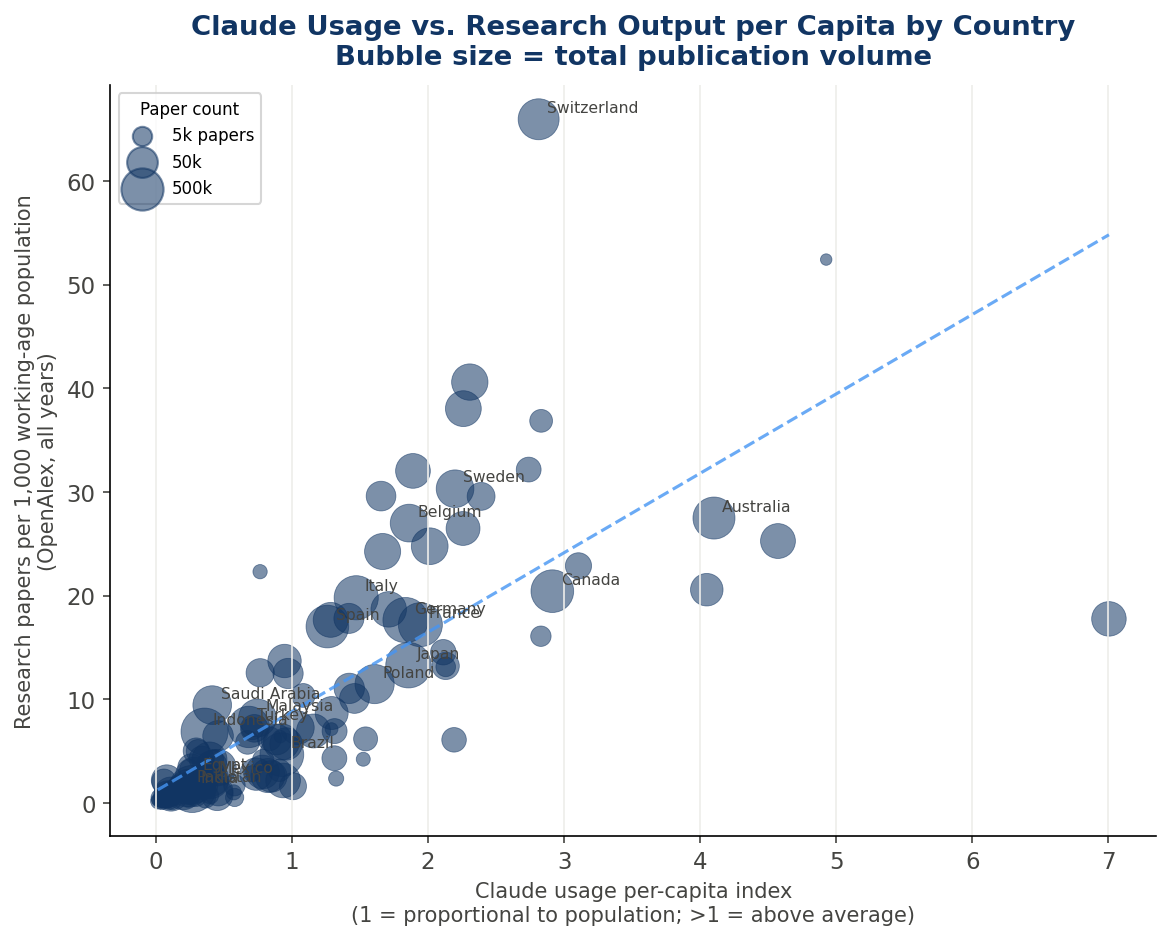
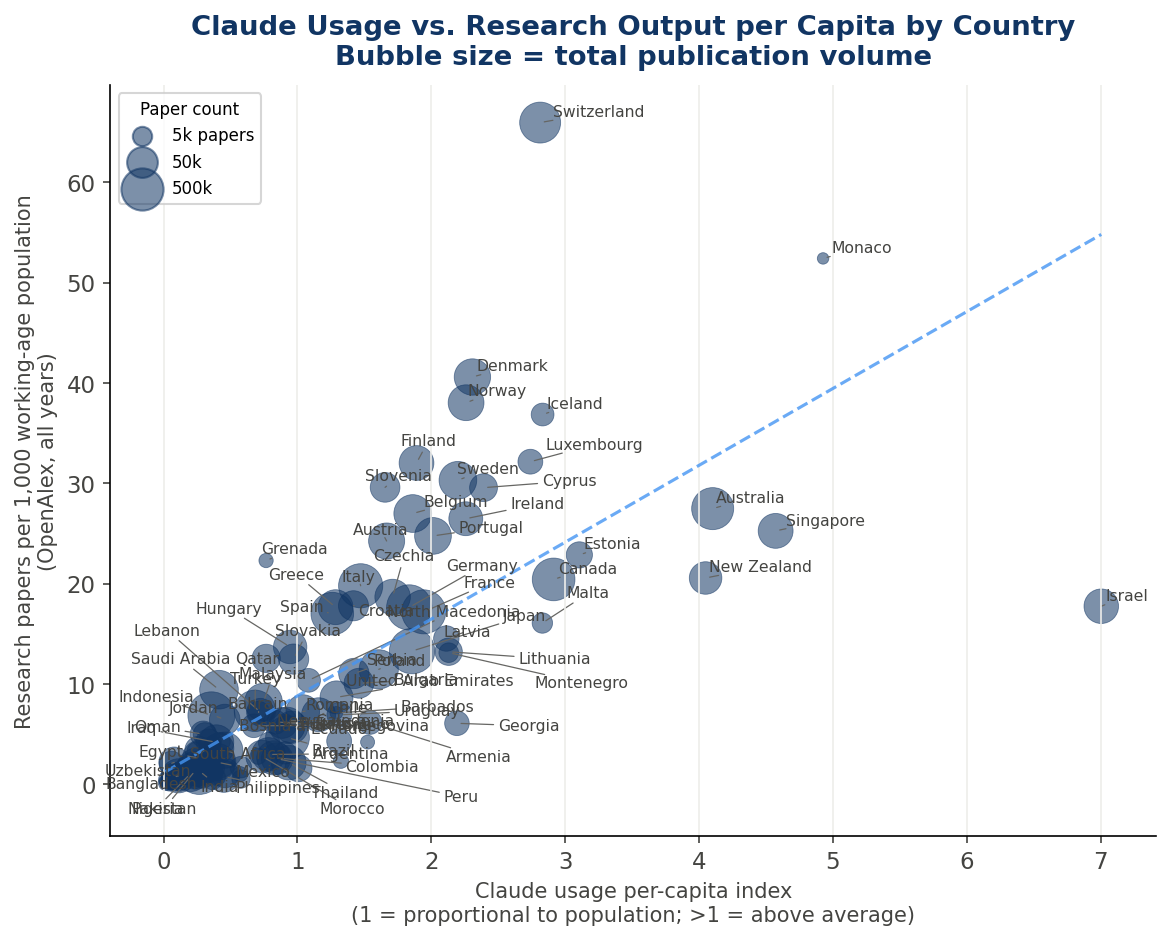
Use adjustText for non-overlapping country labels in scatter

diff --git a/generate_figures.py b/generate_figures.py
@@ -414,18 +414,27 @@ def fig_claude_vs_science_scatter():
     sizes = (np.log10(df["paper_count"]) - 2) ** 2 * 30
     sizes = sizes.clip(lower=10)
 
-    # Label only the 20 largest paper producers
-    label_countries = df.nlargest(20, "paper_count")
+    # Label prominent countries
+    label_mask = (df["paper_count"] >= 50000) | \
+                 (df["claude_index"] >= 5) | \
+                 (df["papers_per_capita"] >= 5)
+    label_countries = df[label_mask]
+
+    from adjustText import adjust_text
 
     fig, ax = plt.subplots(figsize=(9, 6.5))
     ax.scatter(df["claude_index"], df["papers_per_capita"],
                s=sizes, c=LABLUE, alpha=0.55, linewidths=0.4, edgecolors=LABLUE)
 
+    texts = []
     for _, row in label_countries.iterrows():
-        ax.annotate(row["country_name"],
-                    xy=(row["claude_index"], row["papers_per_capita"]),
-                    xytext=(4, 2), textcoords="offset points",
-                    fontsize=7.5, color=GRAY1, va="bottom")
+        texts.append(ax.text(row["claude_index"], row["papers_per_capita"],
+                             row["country_name"], fontsize=7.5, color=GRAY1))
+
+    adjust_text(texts, ax=ax,
+                arrowprops=dict(arrowstyle="-", color=GRAY2, lw=0.6),
+                expand=(1.3, 1.5), force_text=(0.4, 0.6),
+                only_move={"text": "xy", "points": "y"})
 
     # Trend line
     mask = df["claude_index"].between(0.01, 20)
